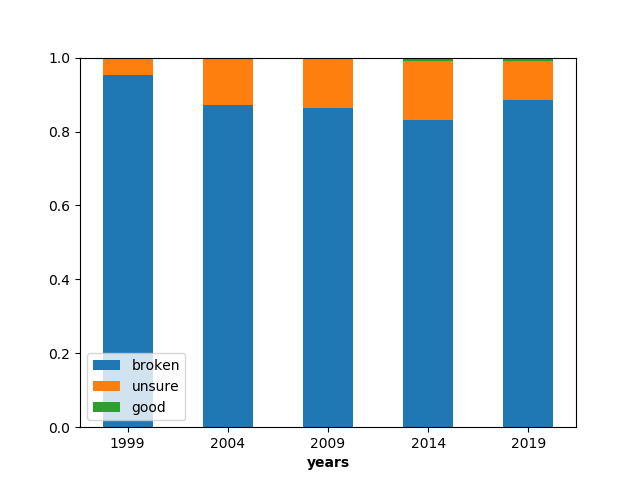
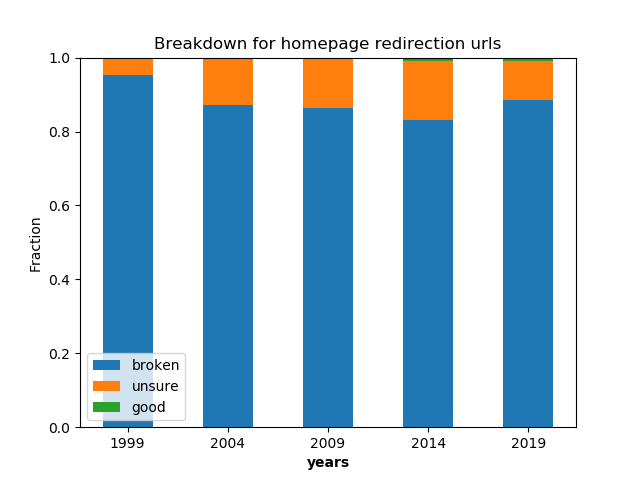
Add title and labels for figures

Changed region(s): [[0.2188, 0.0625, 0.7812, 0.125], [0.0312, 0.4375, 0.0625, 0.5625]]

diff --git a/broken_pages/counts.py b/broken_pages/counts.py
@@ -559,9 +559,21 @@ def status_200_broken_frac_link():
     year = prev_year
     stackname = ['broken', 'unsure', 'good']
 
-    plot.plot_stacked_bargroup(no_redir, xname=years, stackname=stackname, savefig='fig/noredir_links.png')
-    plot.plot_stacked_bargroup(homepage, xname=years, stackname=stackname, savefig='fig/homepage_links.png')
-    plot.plot_stacked_bargroup(nonhome, xname=years, stackname=stackname, savefig='fig/nonhome_links.png')
+    plot.plot_stacked_bargroup(no_redir, xname=years, stackname=stackname, show=False)
+    plt.ylabel('Fraction')
+    plt.title('Breakdown for no redirection urls')
+    plt.savefig('fig/noredir_links.png')
+    plt.close()
+    plot.plot_stacked_bargroup(homepage, xname=years, stackname=stackname, show=False)
+    plt.ylabel('Fraction')
+    plt.title('Breakdown for homepage redirection urls')
+    plt.savefig('fig/homepage_links.png')
+    plt.close()
+    plot.plot_stacked_bargroup(nonhome, xname=years, stackname=stackname, show=False)
+    plt.ylabel('Fraction')
+    plt.title('Breakdown for non-homepage redirection urls')
+    plt.savefig('fig/nonhome_links.png')
+    plt.close()
 
 
 # # for y in years:
